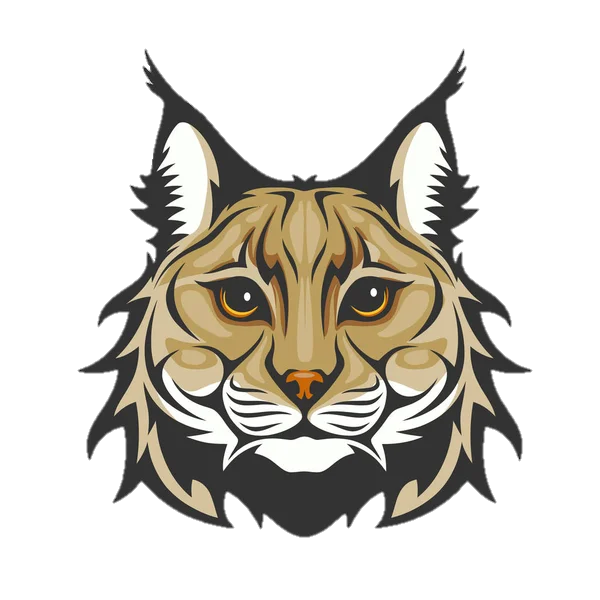
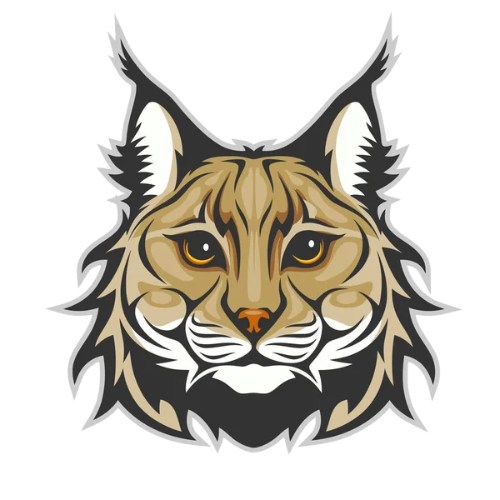
imagenes para el onboarding

diff --git a/lib/screens/onboarging_screen.dart b/lib/screens/onboarging_screen.dart
@@ -9,8 +9,8 @@ class OnboardingScreen extends StatelessWidget {
     CardTecnm(
         title: "Page 1",
         subtitle: "Subtitulo 1",
-        image: AssetImage("assets/onboarding1.jpg"),
-        backgroundColor: Color.fromRGBO(17, 34, 11, 1),
+        image: AssetImage("assets/onboarding1.png"),
+        backgroundColor: Color.fromRGBO(11, 27, 7, 1),
         titleColor: Colors.pink,
         subtitleColor: Colors.white),
     CardTecnm(

diff --git a/lib/screens/login_screen.dart b/lib/screens/login_screen.dart
@@ -1,5 +1,4 @@
 import 'package:flutter/material.dart';
-import 'package:google_fonts/google_fonts.dart';
 import 'package:primer_proyecto/responsive.dart';
 import 'package:primer_proyecto/widgets/loading_modal_widget.dart';
 import 'package:social_login_buttons/social_login_buttons.dart';
